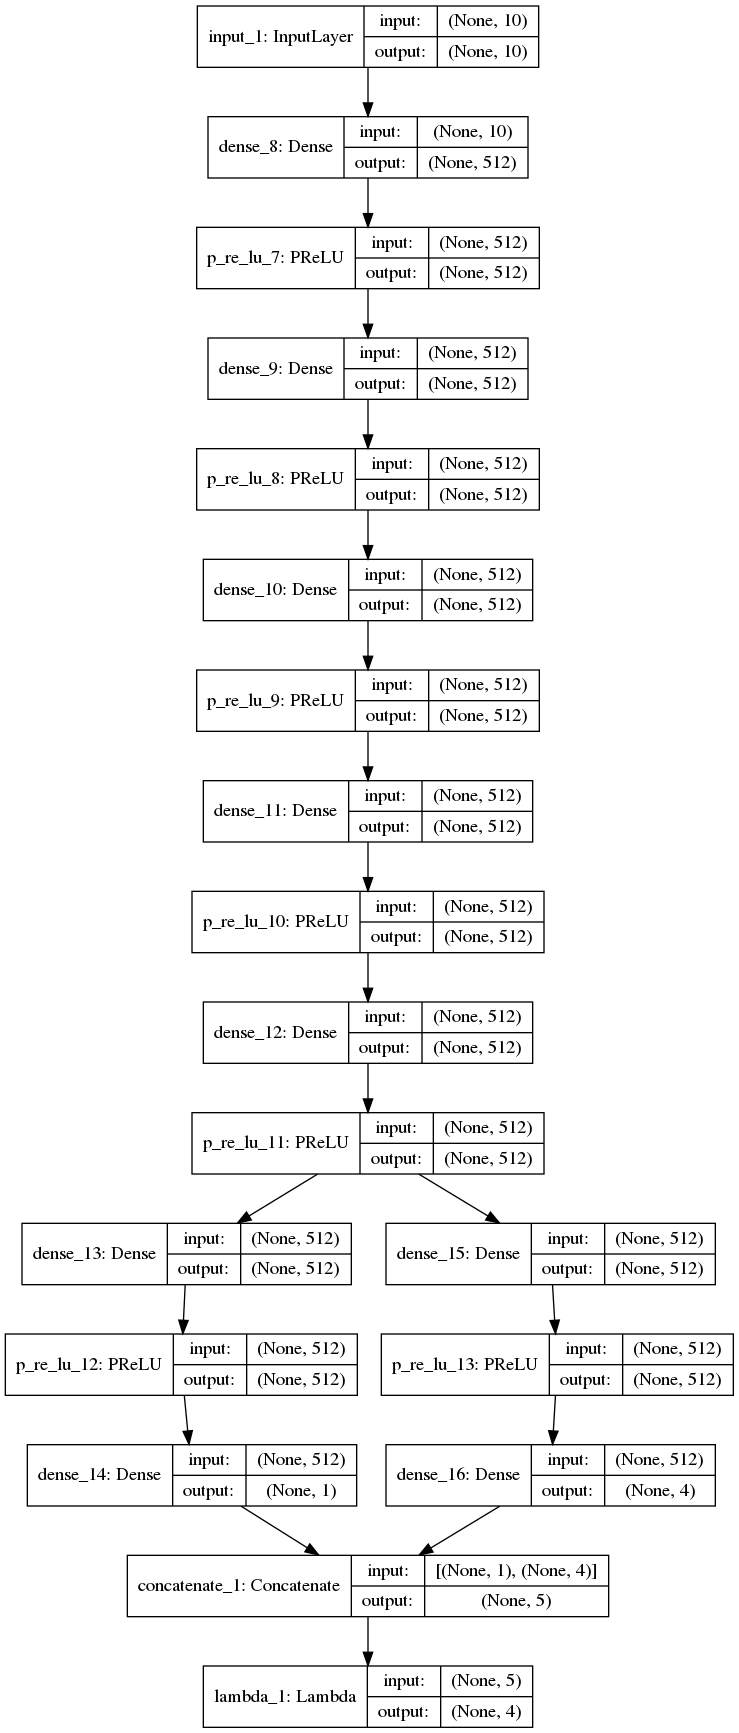
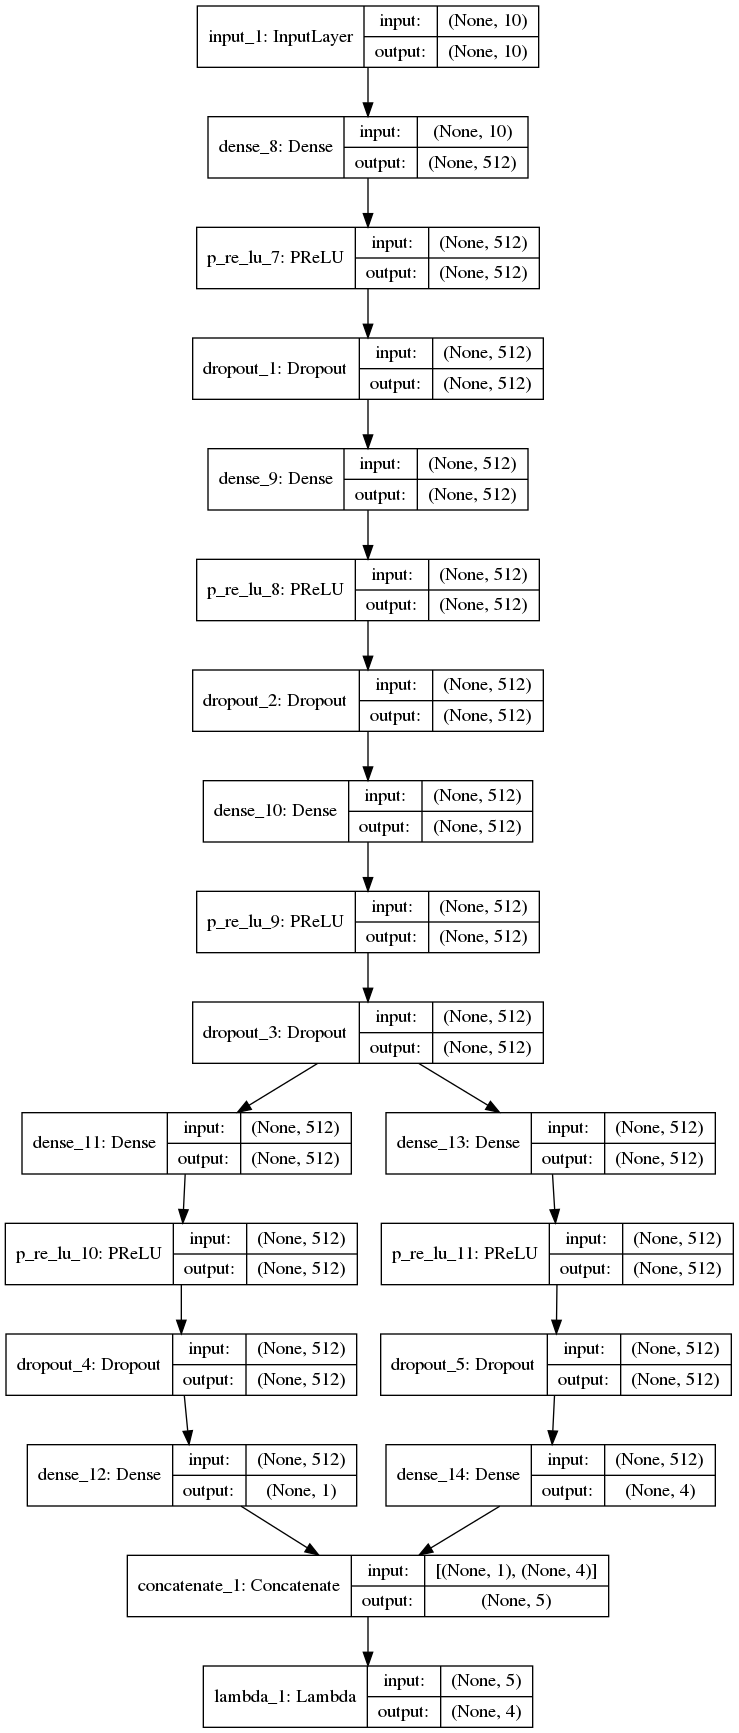
FixTarget ver : ready to merge

diff --git a/model.py b/model.py
@@ -51,20 +51,25 @@ def dueldqn_model(learning_rate=1e-5, state_size=10, num_of_actions=4):
 
     inputS = Input(shape=(state_size,))
 
-    net = Dense(512, kernel_initializer=Xavier())(inputS)
+    net = Dense(512)(inputS)
     net = PReLU()(net)
-    for _ in range(4):
-        net = Dense(512, kernel_initializer=Xavier())(net)
+    net = Dropout(0.2)(net)
+
+    for _ in range(2):
+        net = Dense(512)(net)
         net = PReLU()(net)
+        net = Dropout(0.2)(net)
 
     #Output
-    value = Dense(512, kernel_initializer=Xavier())(net)
+    value = Dense(512)(net)
     value = PReLU()(value)
-    value = Dense(1, kernel_initializer=Xavier())(value)
+    value = Dropout(0.2)(value)
+    value = Dense(1)(value)
 
-    advantage = Dense(512, kernel_initializer=Xavier())(net)
+    advantage = Dense(512)(net)
     advantage = PReLU()(advantage)
-    advantage = Dense(num_of_actions, kernel_initializer=Xavier())(advantage)
+    advantage = Dropout(0.2)(advantage)
+    advantage = Dense(num_of_actions)(advantage)
 
     #No activation function before merge
     net = concatenate([value, advantage])
@@ -81,8 +86,8 @@ def dueldqn_model(learning_rate=1e-5, state_size=10, num_of_actions=4):
     plot_model(model, show_shapes=True, show_layer_names=True, to_file='model.png')
     return model
 
-def dueldqn_formula(x):
-    return x[0]+(x[1] - K.stop_gradient(K.mean(x[1])))
+# def dueldqn_formula(x):
+#     return x[0]+(x[1] - K.stop_gradient(K.mean(x[1])))
 
 def conv2d_model(learning_rate=5e-5, state_shape=None, num_of_actions=4):
     batch, rows, cols, channels = state_shape

diff --git a/train.py b/train.py
@@ -9,7 +9,7 @@ train_params={
     'batch_size' : 32,
     'gamma' : .95, #discount value when update the qvalue, 0~1
     'epsilon' : .05, #epsilon greedy for choosing best move, (the prob to choice the random move)
-    'learning_rate' : 1e-5,
+    'learning_rate' : 1e-4,
     'epochs' : 1000000,
     'num_moves_limit' : 200,
     'rounds_to_test' : 100,
@@ -40,23 +40,23 @@ def main():
     # print("Start training")
     # dqn.train()
 
-    # ddqn = DDQN(**train_params)
-    # initial_rounds = 1000
-    # print ("Initial dataset:", initial_rounds, " rounds")
-    # ddqn.initial_dataset(initial_rounds)
-    # # ddqn.initial_opt_dataset_by_SA(initial_rounds)
-    # print("Start training")
-    # ddqn.train()
+    ddqn = DDQN(**train_params)
+    initial_rounds = 1000
+    print ("Initial dataset:", initial_rounds, " rounds")
+    ddqn.initial_dataset(initial_rounds)
+    # ddqn.initial_opt_dataset_by_SA(initial_rounds)
+    print("Start training")
+    ddqn.train()
 
     # sa = SEARCH_AGENT(**search_params)
     # sa.search()
 
-    duelqn = DUELDQN(**train_params)
-    initial_rounds = 1000
-    print ("Initial dataset:", initial_rounds, " rounds")
-    duelqn.initial_dataset(initial_rounds)
-    print("Start training")
-    duelqn.train()
+    # duelqn = DUELDQN(**train_params)
+    # initial_rounds = 1000
+    # print ("Initial dataset:", initial_rounds, " rounds")
+    # duelqn.initial_dataset(initial_rounds)
+    # print("Start training")
+    # duelqn.train()
 
     # sa = SEARCH_AGENT(**search_params)
     # round = 1

diff --git a/ddqn.py b/ddqn.py
@@ -41,7 +41,7 @@ class DDQN(DQN):
         winrate_sum = prev_winrate_sum = 0.
 
         for i in range(self.epochs):
-            # print("Epoch:%d Cycle:%d" %(i,j))
+            # print("Epoch:%d" %(i))
             tmp_count = 0
             for j in range(cycles):
                 # print("Epoch:%d Cycle:%d" %(i,j))
@@ -181,7 +181,7 @@ class DDQN(DQN):
                 winrate_sum += self.test(self.rounds_to_test)
 
             # Decay learning_rate
-            if i%100 == 0 and i != 0:
+            if i%200 == 0 and i != 0:
                 if winrate_sum <= prev_winrate_sum:
                     self.decay_learning_rate(decay=0.5)
                     if K.get_value(gl.get_model().optimizer.lr) <= 1e-20:
